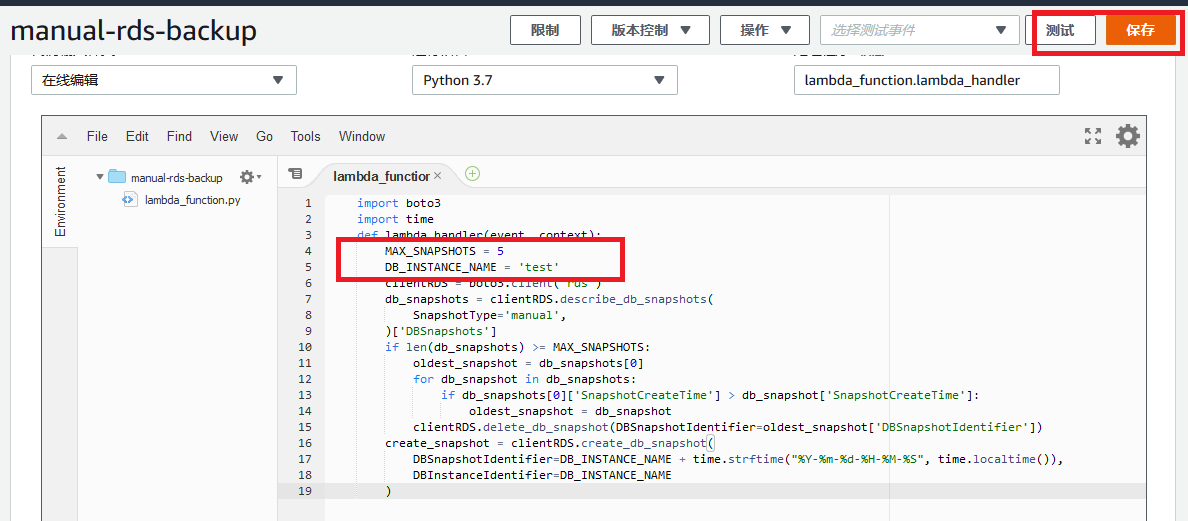
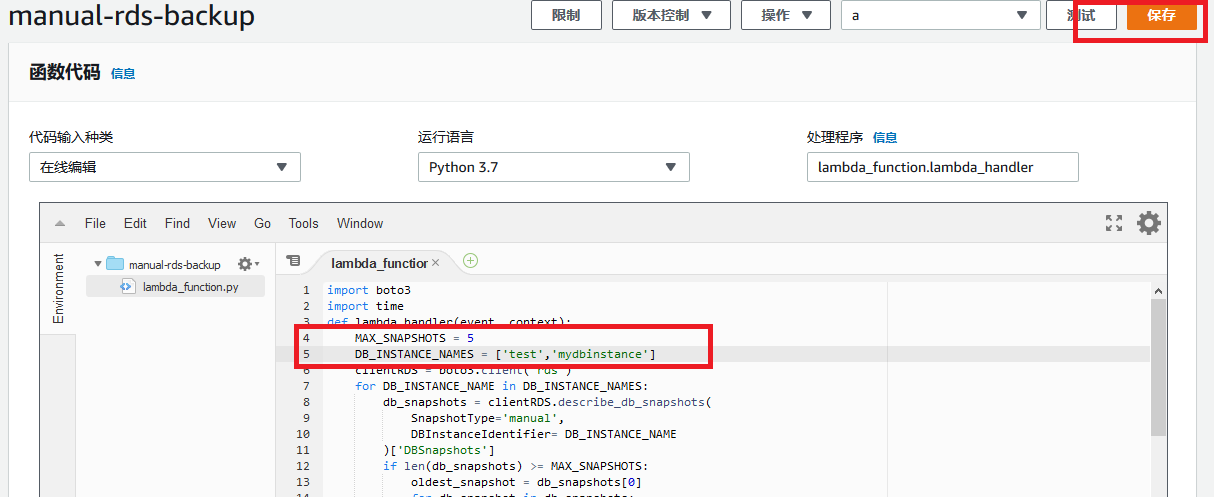
change RDSInstanceName for str to list

diff --git a/code/test.py b/code/test.py
@@ -1,0 +1,23 @@
+import boto3
+import time
+def lambda_handler(event, context):
+    clientSSM = boto3.client('ssm')
+    DB_INSTANCE_NAMES = clientSSM.get_parameter(Name='testList')['Parameter']['Value'].split(',')
+    MAX_SNAPSHOTS = int(clientSSM.get_parameter(Name='RDSMaxSnapshotNumber')['Parameter']['Value'])
+    clientRDS = boto3.client('rds')
+    for DB_INSTANCE_NAME in DB_INSTANCE_NAMES:
+        db_snapshots = clientRDS.describe_db_snapshots(
+            SnapshotType='manual',
+            DBInstanceIdentifier= DB_INSTANCE_NAME
+        )['DBSnapshots']
+        if len(db_snapshots) >= MAX_SNAPSHOTS:
+            oldest_snapshot = db_snapshots[0]
+            for db_snapshot in db_snapshots:
+                if oldest_snapshot['SnapshotCreateTime'] > db_snapshot['SnapshotCreateTime']:
+                    oldest_snapshot = db_snapshot
+            clientRDS.delete_db_snapshot(DBSnapshotIdentifier=oldest_snapshot['DBSnapshotIdentifier'])
+        clientRDS.create_db_snapshot(
+            DBSnapshotIdentifier=DB_INSTANCE_NAME + time.strftime("%Y-%m-%d-%H-%M-%S", time.localtime()),
+            DBInstanceIdentifier=DB_INSTANCE_NAME
+        )
+

diff --git a/code/EBS_snapshot.py b/code/EBS_snapshot.py
@@ -1,0 +1,26 @@
+import boto3
+import time
+def lambda_handler(event, context):
+    MAX_SNAPSHOTS = 5
+    EBS_VOLUME_IDS = ['test']
+    clientEC2 = boto3.client('ec2')
+    for EBS_VOLUME_ID in EBS_VOLUME_IDS:
+        ebs_snapshots = clientEC2.describe_snapshots(
+            Filters=[
+                {
+                    'Name': 'volume-id',
+                    'Values': [EBS_VOLUME_ID]
+                },
+            ],
+        )['Snapshots']
+
+        if len(ebs_snapshots) >= MAX_SNAPSHOTS:
+            oldest_snapshot = ebs_snapshots[0]
+            for ebs_snapshot in ebs_snapshots:
+                if oldest_snapshot['StartTime'] > ebs_snapshot['StartTime']:
+                    oldest_snapshot = ebs_snapshot
+            clientEC2.delete_snapshot(SnapshotId=oldest_snapshot['SnapshotId'])
+        create_snapshot = clientEC2.create_snapshot(
+            Description=EBS_VOLUME_ID + time.strftime("%Y-%m-%d-%H-%M-%S", time.localtime()),
+            VolumeId=EBS_VOLUME_ID
+        )

diff --git a/code/RDS_snapshot.py b/code/RDS_snapshot.py
@@ -1,0 +1,21 @@
+import boto3
+import time
+def lambda_handler(event, context):
+    MAX_SNAPSHOTS = 5
+    DB_INSTANCE_NAMES = ['test','mydbinstance']
+    clientRDS = boto3.client('rds')
+    for DB_INSTANCE_NAME in DB_INSTANCE_NAMES:
+        db_snapshots = clientRDS.describe_db_snapshots(
+            SnapshotType='manual',
+            DBInstanceIdentifier= DB_INSTANCE_NAME
+        )['DBSnapshots']
+        if len(db_snapshots) >= MAX_SNAPSHOTS:
+            oldest_snapshot = db_snapshots[0]
+            for db_snapshot in db_snapshots:
+                if oldest_snapshot['SnapshotCreateTime'] > db_snapshot['SnapshotCreateTime']:
+                    oldest_snapshot = db_snapshot
+            clientRDS.delete_db_snapshot(DBSnapshotIdentifier=oldest_snapshot['DBSnapshotIdentifier'])
+        clientRDS.create_db_snapshot(
+            DBSnapshotIdentifier=DB_INSTANCE_NAME + time.strftime("%Y-%m-%d-%H-%M-%S", time.localtime()),
+            DBInstanceIdentifier=DB_INSTANCE_NAME
+        )

diff --git a/README.md b/README.md
@@ -47,7 +47,7 @@
     在该Lambda函数界面中，将以下代码粘贴进函数代码中，修改参数：
     
     - 第四行 MAX_SNAPSHOTS : 您想保存最大的副本数量(最大100)
-    - 第五行 DB_INSTANCE_NAME ：您想应用该脚本的RDS实例名称
+    - 第五行 DB_INSTANCE_NAME ：您想应用该脚本的RDS实例名称, 或者一组名称
     
     然后选择右上角 **保存**。
 
@@ -57,22 +57,23 @@ import boto3
 import time
 def lambda_handler(event, context):
     MAX_SNAPSHOTS = 5
-    DB_INSTANCE_NAME = 'test'
+    DB_INSTANCE_NAMES = ['test','test2']
     clientRDS = boto3.client('rds')
-    db_snapshots = clientRDS.describe_db_snapshots(
-        SnapshotType='manual',
-    )['DBSnapshots']
-    if len(db_snapshots) >= MAX_SNAPSHOTS:
-        oldest_snapshot = db_snapshots[0]
-        for db_snapshot in db_snapshots:
-            if db_snapshots[0]['SnapshotCreateTime'] > db_snapshot['SnapshotCreateTime']:
-                oldest_snapshot = db_snapshot
-        clientRDS.delete_db_snapshot(DBSnapshotIdentifier=oldest_snapshot['DBSnapshotIdentifier'])
-    create_snapshot = clientRDS.create_db_snapshot(
-        DBSnapshotIdentifier=DB_INSTANCE_NAME + time.strftime("%Y-%m-%d-%H-%M-%S", time.localtime()),
-        DBInstanceIdentifier=DB_INSTANCE_NAME
-    )
-
+    for DB_INSTANCE_NAME in DB_INSTANCE_NAMES:
+        db_snapshots = clientRDS.describe_db_snapshots(
+            SnapshotType='manual',
+            DBInstanceIdentifier= DB_INSTANCE_NAME
+        )['DBSnapshots']
+        if len(db_snapshots) >= MAX_SNAPSHOTS:
+            oldest_snapshot = db_snapshots[0]
+            for db_snapshot in db_snapshots:
+                if oldest_snapshot['SnapshotCreateTime'] > db_snapshot['SnapshotCreateTime']:
+                    oldest_snapshot = db_snapshot
+            clientRDS.delete_db_snapshot(DBSnapshotIdentifier=oldest_snapshot['DBSnapshotIdentifier'])
+        clientRDS.create_db_snapshot(
+            DBSnapshotIdentifier=DB_INSTANCE_NAME + time.strftime("%Y-%m-%d-%H-%M-%S", time.localtime()),
+            DBInstanceIdentifier=DB_INSTANCE_NAME
+        )
 ```
 
 
@@ -122,10 +123,19 @@ def lambda_handler(event, context):
 
 - 在 **指定堆栈详细信息** 页面上，填写堆栈名称、您想应用该脚本的RDS实例名称,以及您想保存最大的副本数量(最大100)，完成后选择 **下一步**
 
-    - rdsInstanceName: 您想应用该脚本的RDS实例名称
+    - rdsInstanceName: 您想应用该脚本的RDS实例名称，或者一组名称，用逗号分隔
     - MaxSnapshotNumber: 您想保存最大的副本数量(最大100)
 
 ![](https://raw.githubusercontent.com/fanyizhe/aws-rds-auto-snapshot/dev/pic/specifyInfo.png)
+
+
+### （可选）修改应用该脚本的RDS实例或者最大备份上限
+
+若您希望修改应用该脚本的RDS实例或者最大备份上限的话，操作如下：
+
+- 进入服务 **AWS Systems Manager - Parameter Store**，编辑修改图中两参数的值。
+
+    ![](https://raw.githubusercontent.com/fanyizhe/aws-rds-auto-snapshot/dev/pic/param_store.png)
 
 
 ### （可选）自定义修改备份时间
